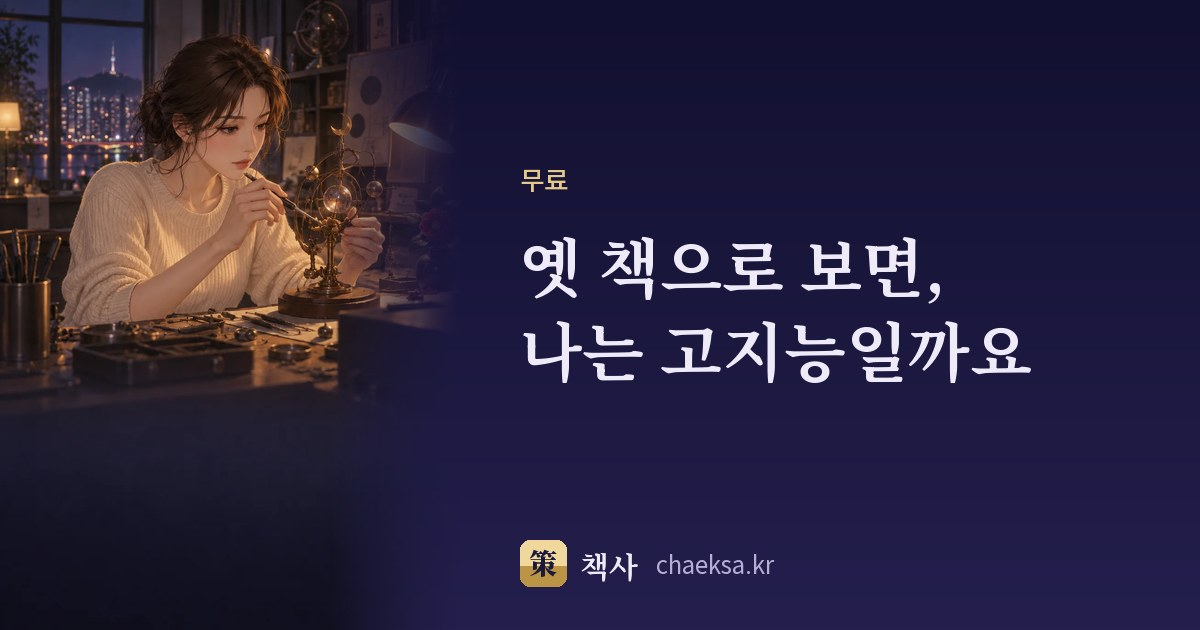
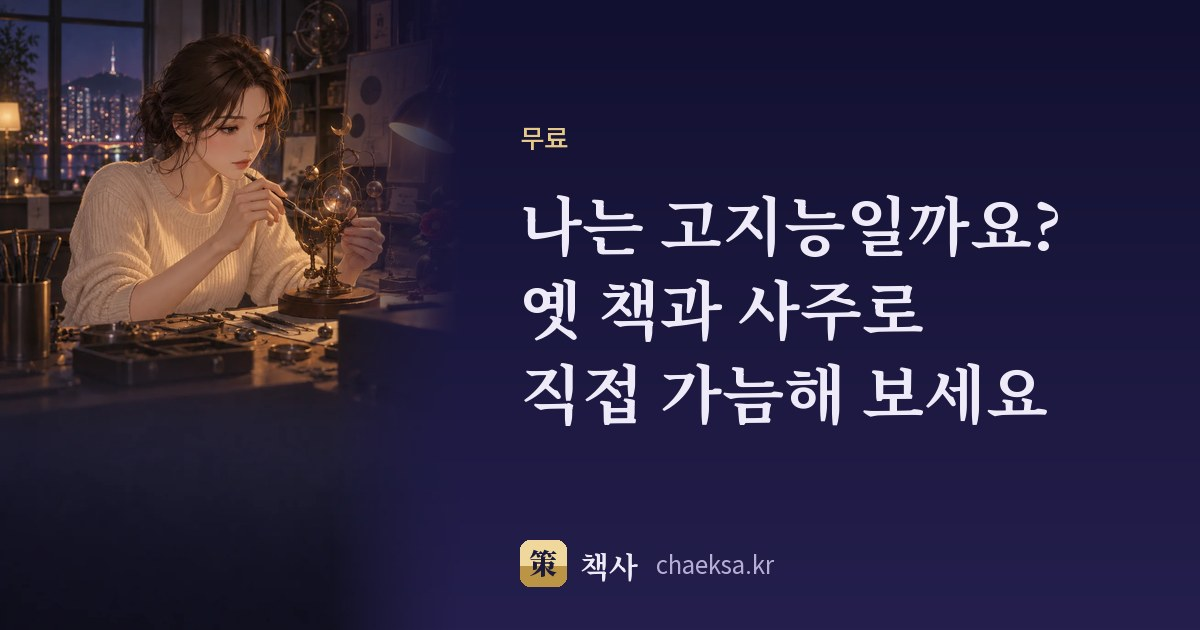
「나는 고지능일까」 한 메뉴 두 관점 — 사장님 10-06 「ver1 추천대로 · ver2 내가 정해줄게 · 한 메뉴 안에 두 관점」
- 탭 둘: 「옛 책이 꼽은 대목」(관점 1) · 「생각하는 방식」(관점 2 — 사장님 정의 받기 전까지 생각 렌즈 갈래 · 흐름)
- 관점 1: 「고지능이다 / 아니다」 판정 · 높은 편 · 가운데 · 낮은 편 이름표를 걷고 34개 가운데 몇 개 · 같은 성별에서 얼마나 드문지만(0개면 「꼭 0개인 사람 비율」)
  — 앞서 무작위 2만 명에서 남 55% · 여 68%가 「낮은 편」을 받던 것을 걷음. 사장님 「콘텐츠 자체가 고지능을 가려낼 수 없다는 뜻이네?」
- 관점 1 물음은 새 id A2(옛 A 는 판정이 맞나였으니 섞지 않음)
- 원고 chaeksa-writer v4(h1 · 소개 · 탭 · 첫 줄 · 드묾 · 물음 · 맺음 · 미리보기 설명), 카톡 미리보기 그림 다시

정한 것: 관점 2 자리에 정의 전까지 생각 렌즈를 둠 · 탭2 이름과 같은 머리 줄은 숨김(작가 제안) · 판정 없이 보여 줄 위치는 「n개 이상 해당하는 사람 %」(0개는 「꼭 0개 %」)

Changed region(s): [[0.4317, 0.2714, 0.8942, 0.6937], [0.4317, 0.181, 0.4933, 0.2413]]

diff --git a/app/brain.js b/app/brain.js
@@ -1,8 +1,11 @@
-/* 「옛 책이 본 내 머리」 시제품 — 그리기만 한다. 계산은 비공개 서버 /api/brain(옛 책 총명 표지 · 적응력 렌즈 셋 · 남녀 각 12,932명 분포).
- * 10-06 사장님 「진짜냐 가짜냐가 아니라 먼저 당신이 고지능자인지 아닌지 우리가 제시하고 이용자가 맞아요 · 아니요 고르게」 · 「화면 시제품 ㄱㄱ」.
- * 물음 셋 — 옛 책(A) · 생각의 갈래(L1) · 생각의 흐름(L2). 버티는 힘(L3)은 10-06 사장님 「버티는 힘 삭제」로 걷었다.
+/* 「나는 고지능일까」(brain.html) — 그리기만 한다. 계산은 비공개 서버 /api/brain(옛 책 총명 대목 34 · 생각 렌즈 둘 · 남녀 각 12,932명 분포).
+ * 10-06 사장님 「먼저 제시하고 이용자가 맞아요 · 아니요 고르게」 → 「화면 시제품」 → 「컨텐츠로 배포」.
+ * 같은 날 「콘텐츠 자체가 고지능을 가려낼 수 없다는 뜻이네?」 → 「ver1 추천대로 · ver2 내가 정해줄게 · 한 메뉴 안에 두 관점」:
+ *   관점 1(옛 책 대목) — 「고지능이다 / 아니다」 · 높은 편 · 낮은 편 이름표를 걷고, 34개 가운데 몇 개 · 같은 성별에서 얼마나 드문지 · 원문만.
+ *   관점 2 — 사장님이 정의한다. 받기 전까지 그 자리에 메인 생각 렌즈 둘(갈래 · 흐름).
  * 답은 /api/love-feedback 에 run 「brain-<서버가 준 열쇠>」 · id 로 남긴다(생일은 보내지 않는다).
- * 문장 틀은 brain-copy.js(작가 원고). 셋을 하나로 합치지 않는다(사장님 「결론을 합치지 말고 관점만 남겨」).
+ *   id: A2 = 관점 1 물음(10-06 판정을 걷은 뒤 — 옛 물음 「A」는 판정이 맞나였으니 섞지 않는다) · L1 · L2 = 관점 2 렌즈.
+ * 문장 틀은 brain-copy.js(작가 원고). 관점을 하나로 합치지 않는다(사장님 「결론을 합치지 말고 관점만 남겨」).
  */
 (function () {
   'use strict';
@@ -23,35 +26,46 @@
     try { fetch(API + '/api/love-feedback', { method: 'POST', headers: { 'Content-Type': 'application/json' }, body: JSON.stringify({ runId: 'brain-' + 표, id: id, value: v }) }); } catch (e) {}
   }
   var 단추 = function (id) { return '<div class="btns" data-id="' + id + '"><button data-v="yes">맞아요</button><button data-v="no">아니에요</button></div><p class="why" data-after="' + id + '"></p>'; };
-  var 위치말 = function (p) { return p <= 2 ? 화('고지능', '옛 책 기준으로 고지능 쪽이에요.') : p <= 20 ? 화('높은편', '높은 편이에요.') : p <= 60 ? 화('가운데', '가운데쯤이에요.') : 화('낮은편', '낮은 편이에요.'); };
   var 성별말 = function (g) { return g === 'F' ? '여자' : '남자'; };
   function 표지칸(x) {
     return '<div class="card"><p class="q" lang="zh-Hant">' + esc(x.원문) + '</p><p>' + esc(x.뜻) + '</p><p class="why">' + esc(x.근거) + '<br><small>' + esc(String(x.출처 || '').replace(/ · (docs|jamidusu)\/\S+/g, '')) + '</small></p></div>';
   }
+  var 탭 = '1';
   function 그리기() {
     var R = 결과; if (!R) return;
-    var 옛 = R.옛, 렌 = R.렌즈, h = '';
-    // 첫 줄 — 옛 책 표지 개수와 같은 성별 가운데 위치
-    h += '<div class="big"><p>' + esc(틀(화('첫줄', '옛 책이 꼽은 총명의 표지 {n}개 — 같은 {성별} 가운데 상위 {p}%'), { n: 옛.n, p: 옛.p, 성별: 성별말(R.성별) })) + '</p><p><b>' + esc(위치말(옛.p)) + '</b></p></div>';
-    // A — 옛 책이 총명하다고 한 자리
+    var 옛 = R.옛, 렌 = R.렌즈, 성 = 성별말(R.성별), h = '';
+    h += '<div class="tabs" role="tablist">' + [['1', 화('탭1', '옛 책이 꼽은 총명')], ['2', 화('탭2', '생각하는 방식')]].map(function (t) {
+      return '<button type="button" role="tab" data-tab="' + t[0] + '" aria-selected="' + (탭 === t[0]) + '" class="' + (탭 === t[0] ? 'on' : '') + '">' + esc(t[1]) + '</button>';
+    }).join('') + '</div>';
+    // 관점 1 — 옛 책 대목: 몇 개 · 얼마나 드문가 · 원문(판정 없음)
+    var v = { n: 옛.n, p: 옛.p, q: 옛.q, 성별: 성 };
+    var 첫 = 옛.n ? 틀(화('첫줄', '옛 책이 「총명하다」고 한 대목 34개 가운데 {n}개에 해당해요.'), v) : 틀(화('첫줄0', '옛 책이 「총명하다」고 한 대목 34개 가운데 해당하는 대목이 없어요.'), v);
+    var 드 = !옛.n ? 틀(화('드묾0', '같은 {성별} 가운데 {q}%가 이렇게 하나도 해당하지 않아요.'), v)
+      : 옛.p > 0 ? 틀(화('드묾', '같은 {성별} 가운데 {n}개 이상 해당하는 사람은 {p}%예요.'), v)
+      : 틀(화('드묾없음', '같은 {성별} 표본 가운데 {n}개 넘게 해당하는 사람이 없을 만큼 드물어요.'), v);
+    h += '<div data-pane="1"' + (탭 === '1' ? '' : ' class="hide"') + '>';
+    h += '<div class="big"><p>' + esc(첫) + '</p><p><b>' + esc(드) + '</b></p></div>';
     var 걸 = 옛.사주.concat(옛.자미);
-    h += '<div class="sec">' + esc(화('A머리', '옛 책이 총명하다고 한 자리')) + '</div><p class="why">' + esc(화('A설명', '옛 책 가운데 공부가 아니라 머리 자체를 말한 대목만 골랐어요.')) + '</p>';
-    h += 걸.length ? 걸.map(표지칸).join('') : '<div class="card"><p>' + esc(화('A없음', '옛 책이 꼽은 표지에 걸리는 자리가 없어요.')) + '</p></div>';
+    h += '<div class="sec">' + esc(화('A머리', '옛 책이 총명하다고 한 대목')) + '</div><p class="why">' + esc(화('A설명', '옛 책 가운데 공부가 아니라 머리 자체를 말한 대목만 골랐어요.')) + '</p>';
+    h += 걸.length ? 걸.map(표지칸).join('') : '<div class="card"><p>' + esc(화('A없음', '해당하는 대목이 없어요.')) + '</p></div>';
     var 안 = 옛.안걸린 || [];
     if (안.length) h += '<details class="fold"><summary>' + esc(틀(화('A나머지', '해당하지 않은 대목 {값}개 펼쳐 보기'), { 값: 안.length })) + '</summary>' + 안.map(표지칸).join('') + '</details>';
-    h += '<p class="q2">' + esc(화('A물음', '옛 책 기준 결과가 나에게 맞나요?')) + '</p>' + 단추('A');
-    // B — 렌즈 둘(갈래 · 흐름)
+    h += '<p class="q2">' + esc(화('A물음', '이 대목들이 나를 잘 말하나요?')) + '</p>' + 단추('A2');
+    h += '</div>';
+    // 관점 2 — 사장님 정의 자리(받기 전까지 생각 렌즈 둘)
     var L = (C.렌즈 || {});
     var 렌즈칸 = function (key, id, 값, 값말, 기본이름, 기본설명) {
       var c = L[key] || {}, r = 렌[key];
       return '<div class="card"><div class="k">' + esc(c.이름 || 기본이름) + '</div><div class="y">' + esc(값말) + '</div><p>' + esc(c.설명 || 기본설명) + '</p>'
-        + '<p class="why">' + esc(틀(c.위치 || '같은 {성별}끼리 견주면 상위 {p}%예요.', { p: r.p, 성별: 성별말(R.성별), 값: 값 })) + '</p>'
+        + '<p class="why">' + esc(틀(c.위치 || '같은 {성별}끼리 견주면 상위 {p}%예요.', { p: r.p, 성별: 성, 값: 값 })) + '</p>'
         + '<p class="q2">' + esc(화('B물음', '이 결과가 나에게 맞나요?')) + '</p>' + 단추(id) + '</div>';
     };
-    h += '<div class="sec">' + esc(화('B머리', '생각하는 방식')) + '</div><p class="why">' + esc(화('B설명', '한 가지 일을 몇 갈래로 생각하는지, 하던 생각을 끝까지 이어 가는지 두 가지를 따로 셌어요.')) + '</p>';
-    h += 렌즈칸('재료', 'L1', 렌.재료.값, 렌.재료.값 + '가지', '생각의 재료', '생각을 맡는 자리에 살아 있는 성질이 몇 가지인가 — 많을수록 여러 갈래로 생각해요.');
-    h += 렌즈칸('흐름', 'L2', 렌.흐름.값, 렌.흐름.값 + '단', '흐름', '기운이 낳는 차례로 몇 단 이어지나 — 끊기지 않고 끝까지 이어 생각하는 힘이에요.');
-    h += '<p class="note">' + esc(화('맺음', '이 결과는 옛 책의 관점이에요. 사람 머리를 재는 시험이 아니에요. 맞아요 · 아니에요는 생일 없이 저장돼요.')) + ' <small>(같은 ' + 성별말(R.성별) + ' ' + R.표본.toLocaleString() + '명 사주로 센 분포)</small></p>';
+    h += '<div data-pane="2"' + (탭 === '2' ? '' : ' class="hide"') + '>';
+    h += (화('B머리', '생각하는 방식') === 화('탭2', '생각하는 방식') ? '' : '<div class="sec">' + esc(화('B머리', '생각하는 방식')) + '</div>') + '<p class="why">' + esc(화('B설명', '한 가지 일을 몇 갈래로 생각하는지, 하던 생각을 끝까지 이어 가는지 두 가지를 따로 셌어요.')) + '</p>';
+    h += 렌즈칸('재료', 'L1', 렌.재료.값, 렌.재료.값 + '가지', '생각의 갈래', '생각을 맡는 자리에 살아 있는 성질이 몇 가지인가 — 많을수록 여러 갈래로 생각해요.');
+    h += 렌즈칸('흐름', 'L2', 렌.흐름.값, 렌.흐름.값 + '단', '생각의 흐름', '기운이 낳는 차례로 몇 단 이어지나 — 끊기지 않고 끝까지 이어 생각하는 힘이에요.');
+    h += '</div>';
+    h += '<p class="note">' + esc(화('맺음', '이 결과는 옛 책과 사주로 본 관점이에요. 머리를 재는 시험이 아니에요. 맞아요 · 아니에요는 생일 없이 저장돼요.')) + ' <small>(같은 ' + 성 + ' ' + R.표본.toLocaleString() + '명 사주로 센 분포)</small></p>';
     h += '<div class="share-row"><button type="button" class="btn ghost small" data-share="1">' + esc(화('공유단추', '이 화면 친구에게 보내기')) + '</button><p class="why" id="shareMsg">' + esc(화('공유안내', '')) + '</p></div>';
     $('out').innerHTML = h;
   }
@@ -63,6 +77,14 @@
       var r = window.ChaeksaShare && ChaeksaShare.shareLink ? await ChaeksaShare.shareLink({ title: 화('공유_title', '옛 책으로 보면, 나는 고지능일까요 — 책사'), text: 화('공유_text', '옛 책이 총명하다고 한 대목으로 내 사주를 봐요. 무료예요.'), url: 주소 }) : '';
       if (말) 말.textContent = r === 'copied' ? '주소를 복사했어요. 카톡 대화창에 붙여 넣으세요.' : r === '' ? '이 주소를 보내 주세요 — ' + 주소 : '';
       try { if (r && r !== 'aborted' && window.ChaeksaTrack && ChaeksaTrack.event) ChaeksaTrack.event('brain_share'); } catch (e2) {}
+      return;
+    }
+    var tb = e.target.closest && e.target.closest('[data-tab]');
+    if (tb) {
+      탭 = tb.getAttribute('data-tab');
+      Array.prototype.forEach.call(document.querySelectorAll('[data-tab]'), function (x) { var on = x === tb; x.classList.toggle('on', on); x.setAttribute('aria-selected', String(on)); });
+      Array.prototype.forEach.call(document.querySelectorAll('[data-pane]'), function (x) { x.classList.toggle('hide', x.getAttribute('data-pane') !== 탭); });
+      try { if (window.ChaeksaTrack && ChaeksaTrack.event) ChaeksaTrack.event('brain_tab' + 탭); } catch (e3) {}
       return;
     }
     var b = e.target.closest && e.target.closest('.btns button'); if (!b) return;

diff --git a/app/brain-copy.js b/app/brain-copy.js
@@ -1,20 +1,22 @@
-/* 「옛 책이 본 내 머리」 화면 문장 — chaeksa-writer 원고(10-06 · 같은 날 「버티는 힘 삭제」로 렌즈 둘 · 정식 공개 때 공유 문구). 토큰 {n} {p} {성별} {값}. 그리기는 brain.js. */
+/* 「나는 고지능일까」 화면 문장 — chaeksa-writer 원고(10-06 · 사장님 「ver1 추천대로 · 한 메뉴 두 관점」: 판정 · 이름표 걷음, 개수 · 드묾만). 토큰 {n} {p} {q} {성별} {값}. 그리기는 brain.js. */
 window.BRAIN_COPY = {
  "화면": {
-  "h1": "옛 책으로 보면, 나는 고지능일까요",
-  "sub": "생년월일과 태어난 시각으로, 학교 성적이 아니라 머리 자체가 좋은지를 옛 책이 말한 대목에 비춰 볼게요. 다 보고 “맞아요 · 아니에요”를 눌러 주시면, 그 답이 모여서 어느 보는 법이 맞는지 가려져요.",
-  "첫줄": "옛 책이 “총명하다”고 한 대목 가운데 {n}개에 해당해요. 같은 {성별}끼리 견주면 상위 {p}%예요.",
-  "고지능": "옛 책 기준으로는 고지능이에요. 상위 2% 안에 들면 고지능으로 봤어요.",
-  "높은편": "옛 책 기준으로 고지능(상위 2% 안)은 아니지만, 머리가 좋은 편이에요.",
-  "가운데": "옛 책 기준으로 고지능은 아니고, 보통이에요.",
-  "낮은편": "옛 책 기준으로 고지능은 아니에요. 옛 책이 “총명하다”고 한 대목에 해당하는 게 적은 편이에요. 옛 책이 “머리가 나쁘다”고 한 대목을 센 건 아니에요.",
-  "A머리": "옛 책이 총명하다고 한 대목",
-  "A설명": "시험 합격이나 벼슬을 말한 대목은 빼고, 옛 책이 “이렇게 태어나면 총명하다”고 한 대목만 모았어요.",
-  "A없음": "해당하는 대목이 없어요. 옛 책이 “머리가 나쁘다”고 한 대목에 걸린 게 아니라, 머리가 좋다고 꼽은 대목에 들지 않았다는 뜻이에요.",
+  "h1": "나는 고지능일까요? 옛 책과 사주로 직접 가늠해 보세요",
+  "sub": "생년월일과 태어난 시각으로 두 가지를 보여 드려요. 하나는 옛 책이 “총명하다”고 꼽은 대목에 내 사주가 몇 개 해당하는지, 다른 하나는 내 사주로 본 생각하는 방식이에요. 지능 검사와 달라서 고지능인지는 정해 드리지 않아요. 보고 나서 “맞아요 · 아니에요”를 눌러 주시면, 그 답이 모여 어느 보는 법이 맞는지 가려져요.",
+  "탭1": "옛 책이 꼽은 대목",
+  "탭2": "생각하는 방식",
+  "첫줄": "옛 책이 “총명하다”고 꼽은 대목 34개 가운데 {n}개가 내 사주에 해당해요.",
+  "드묾": "같은 {성별} 가운데 {n}개 이상 해당하는 사람은 {p}%예요.",
+  "드묾없음": "같은 {성별} 가운데 {n}개 이상 해당하는 사람은 1만 명에 다섯 명도 안 될 만큼 드물어요.",
+  "첫줄0": "옛 책이 “총명하다”고 꼽은 대목 34개 가운데 내 사주에 해당하는 대목은 없어요.",
+  "드묾0": "같은 {성별} 가운데 {q}%가 나처럼 하나도 해당하지 않아요.",
+  "A머리": "내 사주에 해당하는 대목",
+  "A설명": "옛 책 세 권(궁통보감 · 삼명통회 · 자미두수전서)에서 “이렇게 태어나면 총명하다”고 한 대목 34개를 모았어요. 시험 합격이나 벼슬을 말한 대목은 뺐어요. 옛 사람이 사주를 보고 한 말이라, 지능을 잰 숫자와는 달라요.",
+  "A없음": "여기서는 옛 책이 머리를 칭찬한 대목만 모아 셌어요. 머리를 탓한 대목은 세지 않았으니, 0개는 칭찬한 대목에 들지 않았다는 뜻일 뿐이에요.",
   "A나머지": "해당하지 않은 대목 {값}개 펼쳐 보기",
-  "A물음": "이 결과, 실제 나와 맞나요? 학교 성적 말고, 처음 보는 일을 얼마나 빨리 익히는지 · 남보다 먼저 이치를 알아채는지를 떠올려 보세요.",
+  "A물음": "옛 책은 이 34개 대목에 드는 사주를 총명하다고 봤어요. 내 결과가 실제 나와 맞나요? 학교 성적 말고, 처음 보는 일을 남보다 빨리 익히는지 · 이치를 먼저 알아채는지를 떠올려 보세요.",
   "B머리": "생각하는 방식",
-  "B설명": "옛 책 대목과 달리, 머리 좋음을 “생각을 어떻게 하나”로 보는 관점이에요. 사주 여덟 글자로 한 가지 일을 몇 갈래로 생각하는지, 하던 생각을 끝까지 이어 가는지 두 가지를 따로 셌어요. 둘을 하나의 점수로 합치지 않았어요.",
+  "B설명": "옛 책 대목과 달리, “생각을 어떻게 하나”로 머리를 보는 관점이에요. 사주 여덟 글자로 한 가지 일을 몇 갈래로 생각하는지, 하던 생각을 끝까지 이어 가는지 두 가지를 따로 셌어요. 둘을 하나의 점수로 합치지 않았어요.",
   "B물음": "이 풀이, 실제 나와 맞나요?",
   "렌즈": {
    "재료": {
@@ -28,12 +30,12 @@ window.BRAIN_COPY = {
     "위치": "{값}단까지 이어져요. 같은 {성별}끼리 견주면 상위 {p}%예요."
    }
   },
-  "맺음": "여기 나온 결과는 옛 책과 사주로 사람을 본 관점이에요. 머리를 재는 시험이 아니에요. 누른 답은 생년월일 없이 저장돼요.",
+  "맺음": "두 가지 모두 옛 책과 사주로 사람을 보는 법이에요. 지능을 잰 결과와는 달라요. 누른 답은 생년월일 없이 저장돼요.",
   "고마움": "고마워요. 이 답이 쌓여야 어느 보는 법이 맞는지 가려져요.",
   "아니에요뒤": "알려 주셔서 고마워요. 안 맞는다는 답이 있어야 어느 보는 법을 버릴지 가릴 수 있어요.",
   "공유단추": "이 화면 친구에게 보내기",
-  "공유_title": "옛 책으로 보면 나는 고지능일까요 — 책사",
-  "공유_text": "옛 책이 「총명하다」고 한 대목에 몇 개 드는지, 같은 성별에서 상위 몇 %인지 생년월일시로 알려 줘요. 무료예요.",
+  "공유_title": "나는 고지능일까요? 옛 책과 사주로 가늠해 봐요 — 책사",
+  "공유_text": "옛 책이 「총명하다」고 꼽은 대목 34개 가운데 내 사주가 몇 개에 드는지, 같은 성별에서 얼마나 드문지 생년월일시로 알려 줘요. 무료예요.",
   "공유안내": "주소만 가요. 내 생일과 결과는 보내지 않아요."
  }
 };

diff --git a/app/brain.html b/app/brain.html
@@ -3,12 +3,12 @@
 <head>
 <meta charset="utf-8">
 <meta name="viewport" content="width=device-width, initial-scale=1, viewport-fit=cover">
-<title>옛 책으로 보면 나는 고지능일까 — 「총명하다」고 꼽은 사주인지 · 책사</title>
-<meta name="description" content="옛 책으로 보면 나는 고지능일까요? 생년월일시를 넣으면 옛 책 세 권(궁통보감 · 삼명통회 · 자미두수전서)이 「총명하다」고 한 대목 가운데 몇 개에 드는지, 같은 성별에서 상위 몇 %인지 알려 드려요.">
+<title>나는 고지능일까요? 옛 책과 사주로 직접 가늠해 보세요 · 책사</title>
+<meta name="description" content="옛 책이 「총명하다」고 꼽은 대목 34개 가운데 몇 개에 드는지, 같은 성별에서 얼마나 드문지 알려 드려요. 학교 성적이나 합격 말고 머리 자체만 봐요.">
 <meta name="robots" content="index,follow,max-snippet:-1">
 <link rel="canonical" href="https://chaeksa.kr/brain.html">
-<meta property="og:title" content="옛 책으로 보면, 나는 고지능일까요">
-<meta property="og:description" content="옛 책이 「총명하다」고 한 대목 34개 가운데 몇 개에 드는지, 같은 성별에서 상위 몇 %인지 알려 드려요. 학교 성적이나 합격 말고 머리 자체만 봐요. 무료.">
+<meta property="og:title" content="나는 고지능일까요? 옛 책과 사주로 직접 가늠해 보세요">
+<meta property="og:description" content="옛 책이 「총명하다」고 꼽은 대목 34개 가운데 몇 개에 드는지, 같은 성별에서 얼마나 드문지 알려 드려요. 학교 성적이나 합격 말고 머리 자체만 봐요. 무료.">
 <meta property="og:type" content="website">
 <meta property="og:site_name" content="책사">
 <meta property="og:url" content="https://chaeksa.kr/brain.html">
@@ -50,6 +50,8 @@ input,select{width:100%;font-size:var(--t3);padding:10px 12px;border:1px solid v
 /* 10-06 「옛 책이 본 내 머리」 — 원문 칸 · 물음 · 펼침 */
 .card .q{font-family:var(--letter);font-size:var(--t3);line-height:1.8;color:var(--ink);margin:0 0 8px}.why,.card .why{font-size:var(--t2);color:var(--ink2);line-height:1.7;margin:8px 2px 0}.why small{color:var(--ink3);font-size:var(--t1)}
 .q2,.card .q2{font-size:var(--t2);color:var(--ink);font-weight:700;margin:var(--s2) 2px 0;line-height:1.7}details.fold{margin:var(--s2) 0}details.fold>summary{font-size:var(--t2);color:var(--accent);padding:10px 2px;font-weight:700}
+/* 10-06 한 메뉴 두 관점 — 탭 둘 */
+.tabs{display:flex;gap:6px;margin:var(--s2) 0 var(--s3);border-bottom:1px solid var(--line)}.tabs button{flex:1;padding:10px 6px;border:0;border-bottom:2px solid transparent;background:none;font-size:var(--t2);color:var(--ink2);cursor:pointer;font-family:var(--sans)}.tabs button.on{color:var(--accent);border-bottom-color:var(--accent);font-weight:700}
 .share-row{margin:var(--s3) 0 0;text-align:center}.share-row .btn{width:auto;padding:10px 18px}.share-row .why{margin-top:8px}
 .note{font-size:var(--t1);color:var(--ink3);line-height:1.7;margin-top:var(--s3)}
 .foot{font-size:var(--t1);color:var(--ink3);line-height:1.8;margin-top:var(--s4)}.foot a{color:var(--ink3)}
@@ -60,7 +62,7 @@ input,select{width:100%;font-size:var(--t3);padding:10px 12px;border:1px solid v
 <main class="wrap">
   <a class="btn ghost small backhome" href="./" style="display:inline-block;margin-top:0;text-decoration:none">← 홈</a>
   <p class="eyebrow">옛 책이 본 내 머리</p>
-  <h1 id="h1">옛 책으로 보면, 나는 고지능일까요</h1>
+  <h1 id="h1">나는 고지능일까요? 옛 책과 사주로 직접 가늠해 보세요</h1>
   <p class="sub" id="sub"></p>
 
   <div id="who"></div>
@@ -90,7 +92,7 @@ input,select{width:100%;font-size:var(--t3);padding:10px 12px;border:1px solid v
 <script src="people.js?v=64424c6e15"></script>
 <script src="places.js?v=1350b96148"></script>
 <script src="share.js?v=d14e2a4e8e"></script>
-<script src="brain-copy.js?v=206d189892"></script>
-<script src="brain.js?v=1a876fdd43"></script>
+<script src="brain-copy.js?v=ff7d392eb0"></script>
+<script src="brain.js?v=bd9bcf00ec"></script>
 </body>
 </html>

diff --git a/app/love.html b/app/love.html
@@ -26,7 +26,7 @@
 <link rel="preconnect" href="https://fonts.googleapis.com">
 <link rel="preconnect" href="https://fonts.gstatic.com" crossorigin>
 <link href="https://fonts.googleapis.com/css2?family=Noto+Serif+KR:wght@400;700;900&family=Noto+Sans+KR:wght@400;500;700&family=Gowun+Batang:wght@400;700&display=swap" rel="stylesheet">
-<link rel="stylesheet" href="style.css?v=1343">
+<link rel="stylesheet" href="style.css?v=1344">
 <style>
   .doc{max-width:660px;margin:0 auto;padding:24px 18px 90px}
   .doc h1{font-family:var(--serif);font-size:var(--t6);line-height:1.35;margin:6px 0 8px;color:var(--ink)}
@@ -117,10 +117,10 @@
   유코아 팔달 · 대표 이승용 · 사업자등록번호 745-68-00160 · 통신판매업 제2026-대구북구-0909호<br>
   대구 북구 매천로 2길19 상가 126동 1층 111호 · 010-9999-1263 · dl4431@naver.com</p>
 </main>
-<script src="config.js?v=1343"></script>
-<script src="track.js?v=1343"></script>
-<script src="yaksok.js?v=1343"></script>
-<script src="pay.js?v=1343"></script>
+<script src="config.js?v=1344"></script>
+<script src="track.js?v=1344"></script>
+<script src="yaksok.js?v=1344"></script>
+<script src="pay.js?v=1344"></script>
 <script>
 (function(){
   var f='';try{f=new URLSearchParams(location.search).get('from')||'';}catch(e){}

diff --git a/app/pair.html b/app/pair.html
@@ -26,7 +26,7 @@
 <link rel="preconnect" href="https://fonts.googleapis.com">
 <link rel="preconnect" href="https://fonts.gstatic.com" crossorigin>
 <link href="https://fonts.googleapis.com/css2?family=Noto+Serif+KR:wght@400;700;900&family=Noto+Sans+KR:wght@400;500;700&family=Gowun+Batang:wght@400;700&display=swap" rel="stylesheet">
-<link rel="stylesheet" href="style.css?v=1343">
+<link rel="stylesheet" href="style.css?v=1344">
 <style>
   .doc{max-width:660px;margin:0 auto;padding:24px 18px 90px}
   .doc h1{font-family:var(--serif);font-size:var(--t6);line-height:1.35;margin:6px 0 8px;color:var(--ink)}
@@ -99,10 +99,10 @@
   유코아 팔달 · 대표 이승용 · 사업자등록번호 745-68-00160 · 통신판매업 제2026-대구북구-0909호<br>
   대구 북구 매천로 2길19 상가 126동 1층 111호 · 010-9999-1263 · dl4431@naver.com</p>
 </main>
-<script src="config.js?v=1343"></script>
-<script src="track.js?v=1343"></script>
-<script src="yaksok.js?v=1343"></script>
-<script src="pay.js?v=1343"></script>
+<script src="config.js?v=1344"></script>
+<script src="track.js?v=1344"></script>
+<script src="yaksok.js?v=1344"></script>
+<script src="pay.js?v=1344"></script>
 <script>
 (function(){
   var f='';try{f=new URLSearchParams(location.search).get('from')||'';}catch(e){}

diff --git a/app/gunghap-chongnon.html b/app/gunghap-chongnon.html
@@ -26,7 +26,7 @@
 <link rel="preconnect" href="https://fonts.googleapis.com">
 <link rel="preconnect" href="https://fonts.gstatic.com" crossorigin>
 <link href="https://fonts.googleapis.com/css2?family=Noto+Serif+KR:wght@400;700;900&family=Noto+Sans+KR:wght@400;500;700&family=Gowun+Batang:wght@400;700&display=swap" rel="stylesheet">
-<link rel="stylesheet" href="style.css?v=1343">
+<link rel="stylesheet" href="style.css?v=1344">
 <style>
   .doc{max-width:660px;margin:0 auto;padding:24px 18px 90px}
   .doc h1{font-family:var(--serif);font-size:var(--t6);line-height:1.35;margin:6px 0 8px;color:var(--ink)}
@@ -102,8 +102,8 @@
   유코아 팔달 · 대표 이승용 · 사업자등록번호 745-68-00160 · 통신판매업 제2026-대구북구-0909호<br>
   대구 북구 매천로 2길19 상가 126동 1층 111호 · 010-9999-1263 · dl4431@naver.com</p>
 </main>
-<script src="config.js?v=1343"></script>
-<script src="track.js?v=1343"></script>
+<script src="config.js?v=1344"></script>
+<script src="track.js?v=1344"></script>
 <script>
 (function(){
   var f='';try{f=new URLSearchParams(location.search).get('from')||'';}catch(e){}

diff --git a/app/jeongtong.html b/app/jeongtong.html
@@ -26,7 +26,7 @@
 <link rel="preconnect" href="https://fonts.googleapis.com">
 <link rel="preconnect" href="https://fonts.gstatic.com" crossorigin>
 <link href="https://fonts.googleapis.com/css2?family=Noto+Serif+KR:wght@400;700;900&family=Noto+Sans+KR:wght@400;500;700&family=Gowun+Batang:wght@400;700&display=swap" rel="stylesheet">
-<link rel="stylesheet" href="style.css?v=1343">
+<link rel="stylesheet" href="style.css?v=1344">
 <style>
   .doc{max-width:660px;margin:0 auto;padding:24px 18px 90px}
   .doc h1{font-family:var(--serif);font-size:var(--t6);line-height:1.35;margin:6px 0 8px;color:var(--ink)}
@@ -101,8 +101,8 @@
   유코아 팔달 · 대표 이승용 · 사업자등록번호 745-68-00160 · 통신판매업 제2026-대구북구-0909호<br>
   대구 북구 매천로 2길19 상가 126동 1층 111호 · 010-9999-1263 · dl4431@naver.com</p>
 </main>
-<script src="config.js?v=1343"></script>
-<script src="track.js?v=1343"></script>
+<script src="config.js?v=1344"></script>
+<script src="track.js?v=1344"></script>
 <script>
 (function(){
   var f='';try{f=new URLSearchParams(location.search).get('from')||'';}catch(e){}

diff --git a/app/ssom.html b/app/ssom.html
@@ -26,7 +26,7 @@
 <link rel="preconnect" href="https://fonts.googleapis.com">
 <link rel="preconnect" href="https://fonts.gstatic.com" crossorigin>
 <link href="https://fonts.googleapis.com/css2?family=Noto+Serif+KR:wght@400;700;900&family=Noto+Sans+KR:wght@400;500;700&family=Gowun+Batang:wght@400;700&display=swap" rel="stylesheet">
-<link rel="stylesheet" href="style.css?v=1343">
+<link rel="stylesheet" href="style.css?v=1344">
 <style>
   .doc{max-width:660px;margin:0 auto;padding:24px 18px 90px}
   .doc h1{font-family:var(--serif);font-size:var(--t6);line-height:1.35;margin:6px 0 8px;color:var(--ink)}
@@ -96,8 +96,8 @@
   유코아 팔달 · 대표 이승용 · 사업자등록번호 745-68-00160 · 통신판매업 제2026-대구북구-0909호<br>
   대구 북구 매천로 2길19 상가 126동 1층 111호 · 010-9999-1263 · dl4431@naver.com</p>
 </main>
-<script src="config.js?v=1343"></script>
-<script src="track.js?v=1343"></script>
+<script src="config.js?v=1344"></script>
+<script src="track.js?v=1344"></script>
 <script>
 (function(){
   var f='';try{f=new URLSearchParams(location.search).get('from')||'';}catch(e){}

diff --git a/app/sw.js b/app/sw.js
@@ -9,7 +9,7 @@
  *  그 밖(지문 없는 파일 · 숫자 ?v=) — 네트워크 먼저, 끊겼을 때만 캐시.
  *  캐시에는 제대로 받은 것(r.ok)만 넣는다 — 404 · 오류 쪽이 캐시에 남아 다음에 그것을 보이는 일이 없게.
  */
-const CACHE = 'chaeksa-v1343';          // tools_bust.py --bump 가 올린다 — 이 파일이 바뀌어야 브라우저가 새 일꾼을 받는다
+const CACHE = 'chaeksa-v1344';          // tools_bust.py --bump 가 올린다 — 이 파일이 바뀌어야 브라우저가 새 일꾼을 받는다
 const FILES_CACHE = 'chaeksa-files';    // ① 지문 붙은 파일 — 배포마다 지우지 않는다
 const IMG_CACHE = 'chaeksa-img';        // ② 그림
 const IMG_MAX = 400;

diff --git a/docs/작업판.md b/docs/작업판.md
@@ -462,3 +462,5 @@
 - 머리-3 닫음 (10-06) 반박 검토 둘(원문 · 코드) 반영: 一點 = 판 전체 하나뿐(:1630) · 支 글귀 = 지지 수 · 설명 · 줄 번호 고침 · 못 박은 판 6. 전수 걸림 S2 286 · S4 80 · S7 169 /4320. 시험 사주 통과 · 자미 50/0 · 비공개 서버 다시 올림(404 확인). 알려진 구멍: 시 모를 때 23시 · 절입일(화면은 시 없으면 안 받아 영향 없음).
 - 머리-4 닫음 (10-06) 사장님 「썸네일 달고 컨텐츠로 배포 ㄱㄱ」 → 정식 무료 공개 ac6c7b0a: 홈 「나」 칸 「나는 고지능일까」(썸네일 jt-g-pyeonin) · 카톡 미리보기 cards/og/brain.jpg · 검색 열림 · 사이트맵 · 공유 단추. 라이브 확인(쪽 index · 그림 200 · 홈 칸 · 사이트맵). 검사기 막힘 0. 사장님 검수: 홈 칸 이름 「나는 고지능일까」 · 공유 안내 한 줄.
 - 입력-1 닫음 (10-06) 사장님 「시간 입력 바꿔 줘」(폰 시계 고르개) → brain.html · when.html 시각 칸을 시 · 분 숫자 칸 둘로(640502df, 라이브 확인). 규칙: chaeksa-screen.md · 메모 feedback-input-from-profile.
+- 머리-5 (10-06) 사장님 「ver1 추천대로 · ver2 내가 정해줄게 · 한 메뉴 안에 두 관점」 → 관점 1 판정 · 낮은 편 걷고 몇 개 · 드묾만, 관점 2 는 사장님 정의 대기(그동안 생각 렌즈), 탭 둘. 담당: 메인(서버 · 화면) · chaeksa-writer(문장).
+- 머리-5 닫음 (10-06) 두 관점 탭(「옛 책이 꼽은 대목」 · 「생각하는 방식」) · 관점 1 판정 · 이름표 걷고 34개 중 몇 개 · 같은 성별에서 얼마나 드문지(서버 q = 꼭 그 개수 비율 더함) · 물음 id A2 · 원고 작가 v4 · 카톡 미리보기 다시. 검사기 막힘 0. 관점 2 는 사장님 정의 대기.
